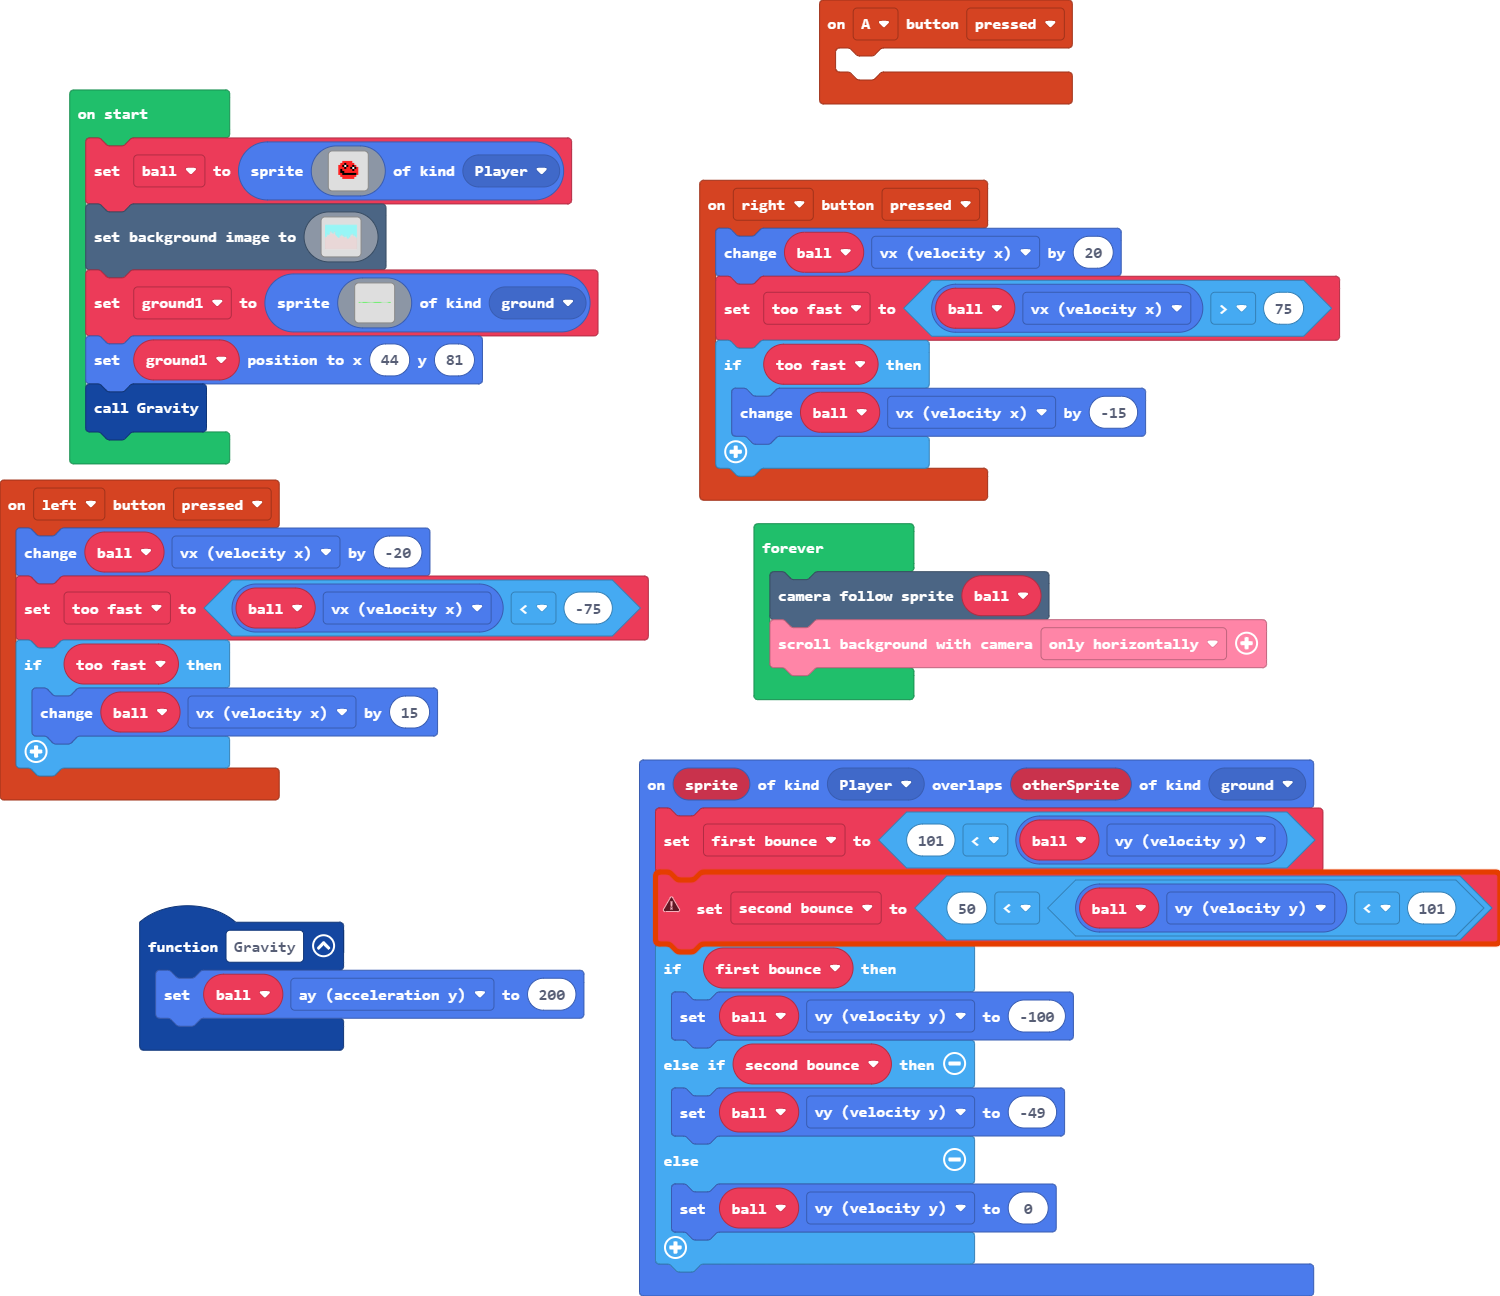
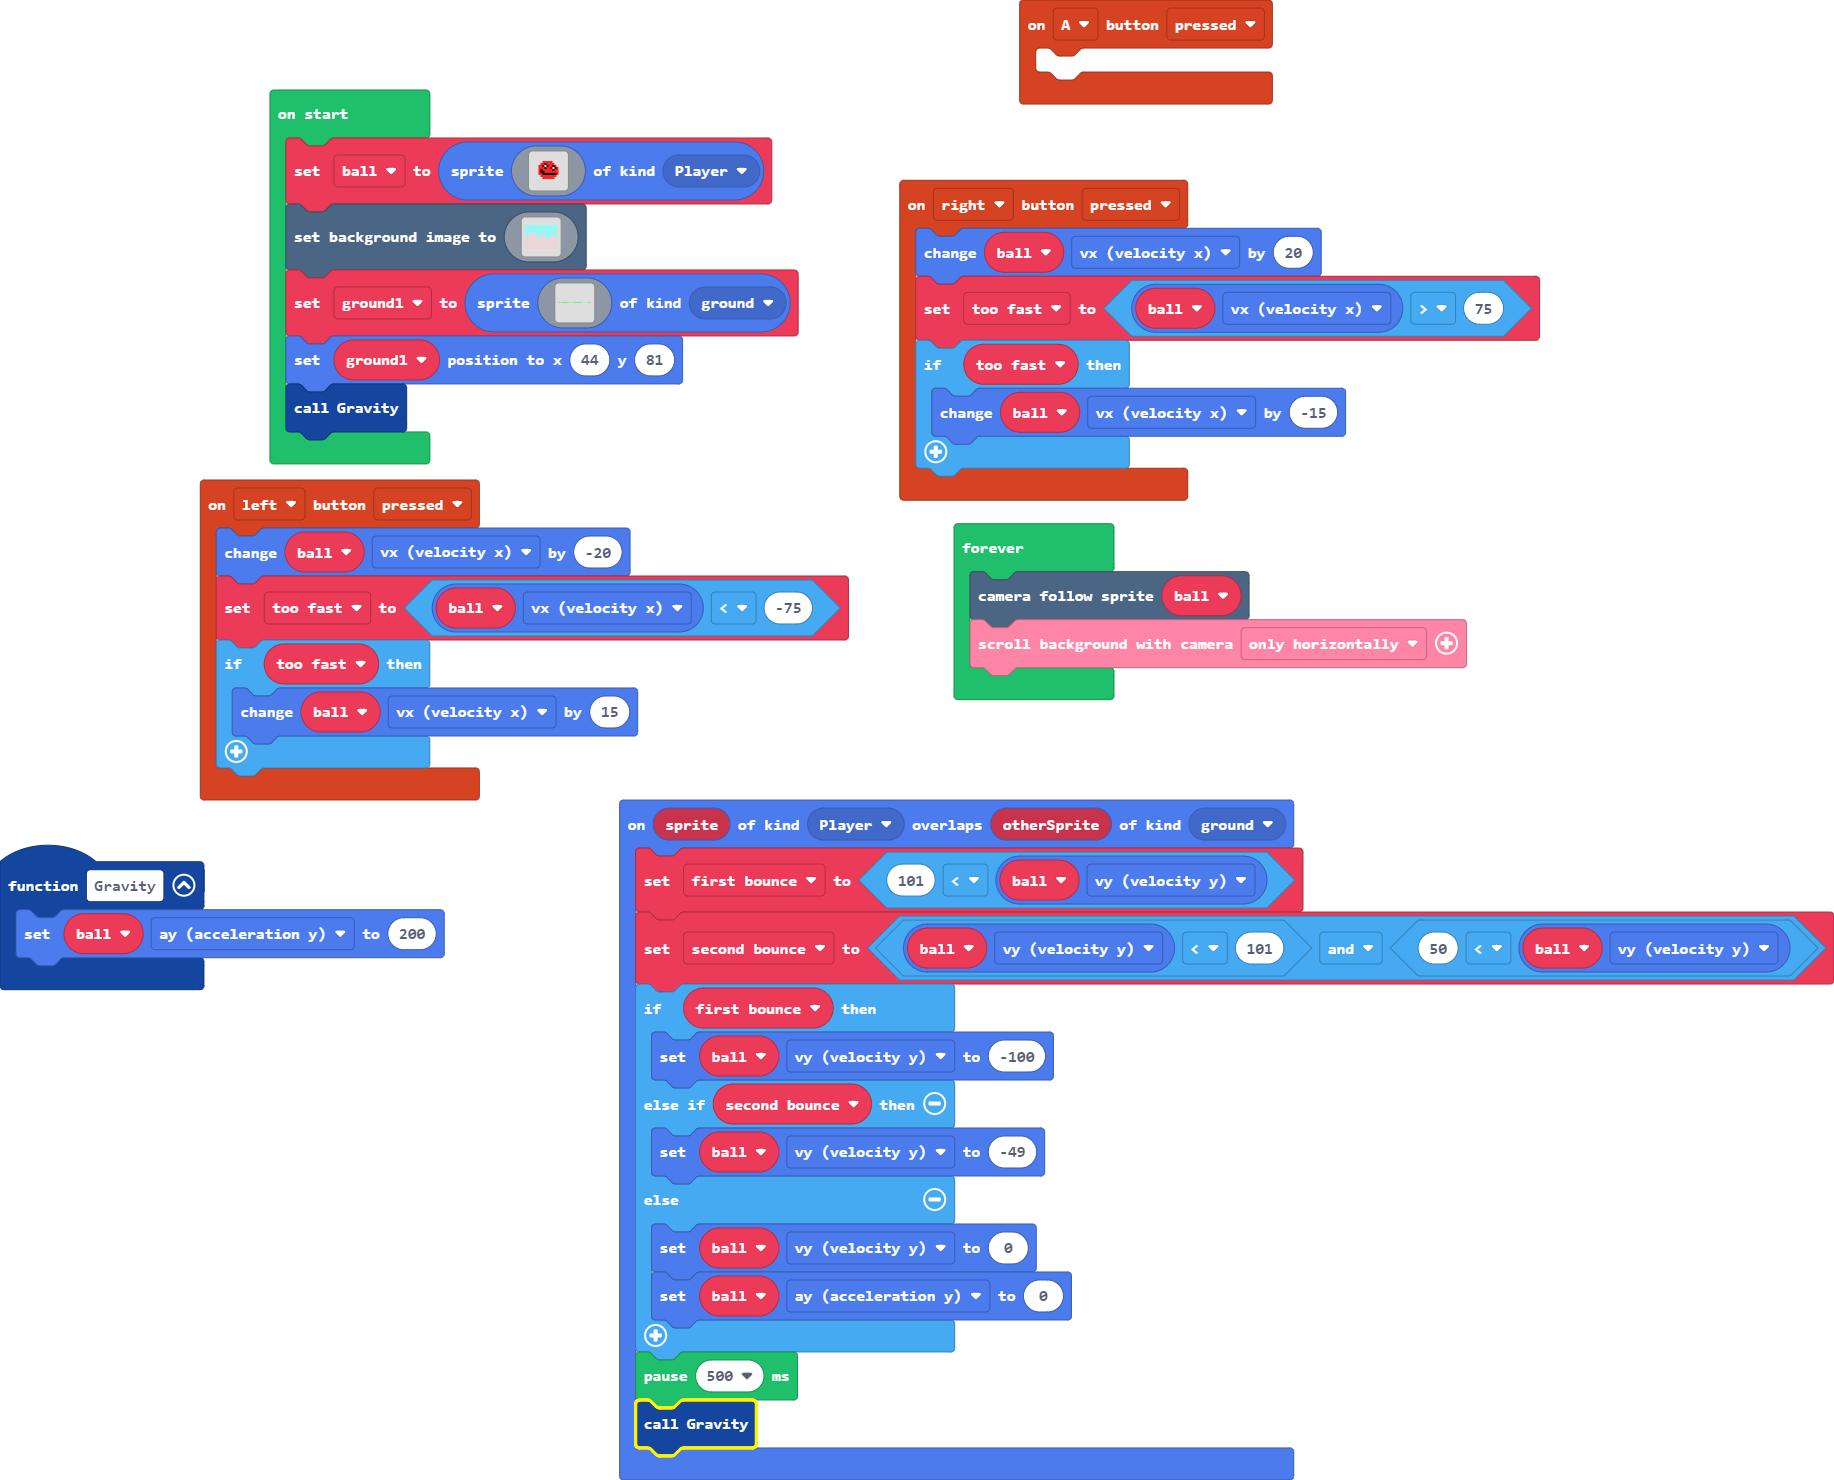
Update main.blocks, main.ts

diff --git a/main.ts b/main.ts
@@ -9,14 +9,17 @@ controller.A.onEvent(ControllerButtonEvent.Pressed, function () {
 })
 sprites.onOverlap(SpriteKind.Player, SpriteKind.ground, function (sprite, otherSprite) {
     first_bounce = 101 < ball.vy
-    second_bounce = 50 < (ball.vy < 101)
+    second_bounce = ball.vy < 101 && 50 < ball.vy
     if (first_bounce) {
         ball.vy = -100
     } else if (second_bounce) {
         ball.vy = -49
     } else {
         ball.vy = 0
+        ball.ay = 0
     }
+    pause(500)
+    Gravity()
 })
 controller.left.onEvent(ControllerButtonEvent.Pressed, function () {
     ball.vx += -20
